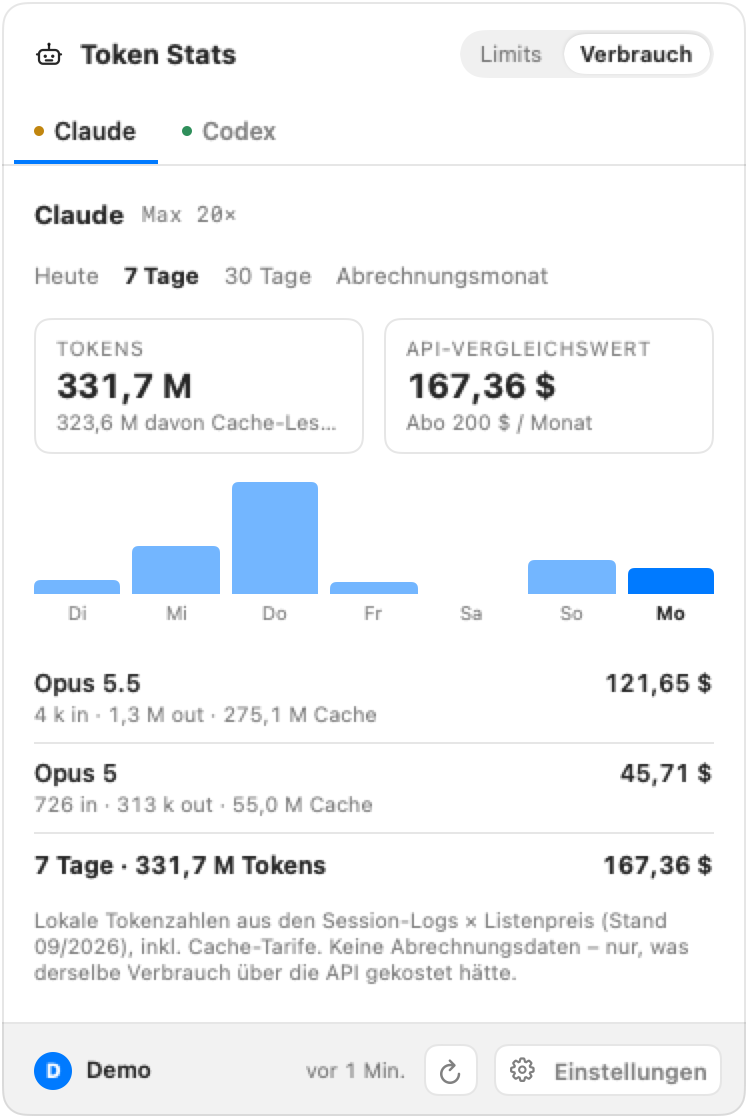
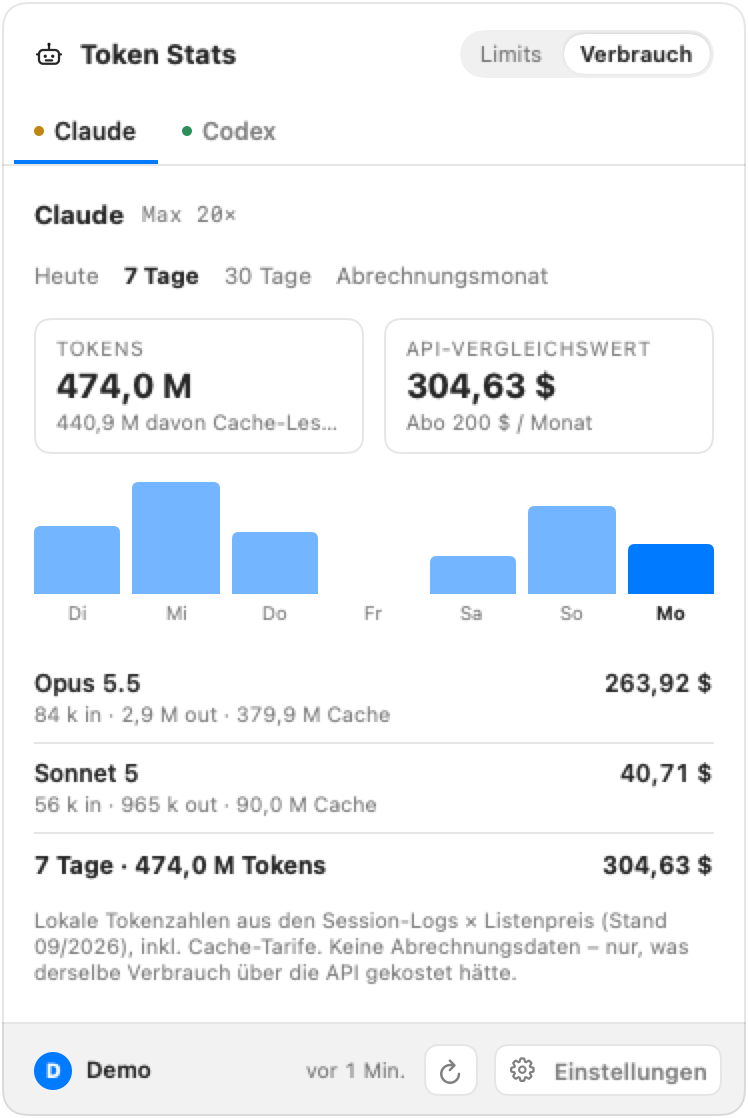
Screenshots nur mit Demo-Werten
Auch die Verbrauchsseite zeigt jetzt Demo-Werte (30 Tage mit
Wochenrhythmus, Opus 5.5/Sonnet 5 bzw. GPT-5.6 Sol, Cache-Anteil um
80 %). Der Screenshot-Modus liest keine Logs mehr und fragt nichts ab;
TOKENSTATS_OPEN_SETTINGS läuft ebenfalls mit Demo-Werten.

diff --git a/Sources/TokenStats/App/Screenshots.swift b/Sources/TokenStats/App/Screenshots.swift
@@ -5,8 +5,8 @@ import SwiftUI
 /// `make screenshots`: rendert Popover und Menüleisten-Symbol als PNG für die README.
 ///
 /// Die App zeichnet ihre eigenen Views, deshalb braucht das keine Freigabe für
-/// Bildschirmaufnahme. Limits kommen aus festen Demo-Werten (keine Abfrage, kein Cache,
-/// keine Kontonamen), der Verbrauch aus dem echten Ledger.
+/// Bildschirmaufnahme. Limits und Verbrauch sind Demo-Werte: keine Abfrage, kein Cache,
+/// keine Logs, keine Kontonamen.
 @MainActor
 struct Screenshots {
     let store: UsageStore
@@ -26,10 +26,14 @@ struct Screenshots {
         }
     }
 
+    /// Demo-Werte für Limits und Verbrauch; nichts wird abgefragt oder aus den Logs gelesen.
+    func showDemo(now: Date = .now) {
+        store.showDemo(Self.demoSnapshots(now: now))
+        consumption.showDemo(Self.demoUsage(now: now, billingDay: settings.billingDay, prices: consumption.prices))
+    }
+
     private func capture(into directory: URL) async throws {
-        store.showDemo(Self.demoSnapshots(now: .now))
-        consumption.refresh()
-        while !consumption.hasScannedOnce { try await Task.sleep(for: .milliseconds(200)) }
+        showDemo()
 
         for (suffix, appearance) in [("light", NSAppearance.Name.aqua), ("dark", .darkAqua)] {
             func file(_ name: String) -> URL { directory.appending(path: "\(name)-\(suffix).png") }
@@ -150,6 +154,48 @@ struct Screenshots {
                 fetchedAt: now.addingTimeInterval(-60)
             ),
         ]
+    }
+
+    /// 30 Tage Verbrauch mit Wochenrhythmus; Cache-Anteil wie bei Claude Code üblich um 80 %.
+    static func demoUsage(now: Date, billingDay: Int, prices: PriceTable,
+                          calendar: Calendar = .current) -> [String: [UsagePeriod: UsageSummary]] {
+        // Tagesfaktoren, heute zuletzt; die Nullen sind freie Tage.
+        let pattern: [Double] = [0.9, 1.2, 0.7, 1.4, 0.3, 0, 0.5, 1.1, 1.3, 0.8, 1.6, 0.9, 0.2, 0,
+                                 1.0, 0.6, 1.5, 1.2, 0.7, 0.4, 0.1, 1.3, 0.9, 1.1, 1.8, 1.0, 0, 0.6, 1.4, 0.8]
+        let models: [String: [(model: String, share: Double, perDay: TokenCounts)]] = [
+            "claude": [
+                ("claude-opus-5-5", 0.7, TokenCounts(input: 9_000, output: 310_000, cacheWrite5m: 1_900_000,
+                                                     cacheWrite1h: 600_000, cacheRead: 38_000_000)),
+                ("claude-sonnet-5", 0.3, TokenCounts(input: 14_000, output: 240_000, cacheWrite5m: 1_400_000,
+                                                     cacheWrite1h: 0, cacheRead: 21_000_000)),
+            ],
+            "codex": [
+                ("gpt-5.6-sol", 1, TokenCounts(input: 1_100_000, output: 180_000, cacheRead: 9_500_000)),
+            ],
+        ]
+        let today = calendar.startOfDay(for: now)
+        func scaled(_ counts: TokenCounts, _ factor: Double) -> TokenCounts {
+            func s(_ value: Int) -> Int { Int(Double(value) * factor) }
+            return TokenCounts(input: s(counts.input), output: s(counts.output), cacheWrite5m: s(counts.cacheWrite5m),
+                               cacheWrite1h: s(counts.cacheWrite1h), cacheRead: s(counts.cacheRead))
+        }
+
+        return models.mapValues { lines in
+            let rows = pattern.enumerated().flatMap { index, factor in
+                let day = calendar.date(byAdding: .day, value: index - (pattern.count - 1), to: today)!
+                return lines.map { line in
+                    UsageLedger.Row(day: UsageSummary.key(day, calendar), model: line.model,
+                                    counts: scaled(line.perDay, factor * line.share * 2))
+                }
+            }
+            return Dictionary(uniqueKeysWithValues: UsagePeriod.allCases.map { period in
+                let range = period.range(now: now, billingDay: billingDay, calendar: calendar)
+                let from = UsageSummary.key(range.from, calendar), through = UsageSummary.key(range.through, calendar)
+                let inRange = rows.filter { $0.day >= from && $0.day <= through }
+                return (period, UsageSummary.build(rows: inRange, from: range.from, through: range.through,
+                                                   prices: prices, calendar: calendar))
+            })
+        }
     }
 }
 #endif

diff --git a/Sources/TokenStats/App/AppDelegate.swift b/Sources/TokenStats/App/AppDelegate.swift
@@ -34,13 +34,19 @@ final class AppDelegate: NSObject, NSApplicationDelegate {
         popover.behavior = .transient
         popover.animates = false
 
+        #if DEBUG
+        // Für Screenshots: Demo-Werte statt Abfrage und Logs, Einstellungen gleich offen.
+        if ProcessInfo.processInfo.environment["TOKENSTATS_OPEN_SETTINGS"] != nil {
+            Screenshots(store: store, consumption: consumption, settings: settings).showDemo()
+            observeIcon()
+            openSettings()
+            return
+        }
+        #endif
+
         observeIcon()
         store.start()
         consumption.start()
-        #if DEBUG
-        // Für `make screenshots`: Einstellungen gleich öffnen, ohne Klick aufs Symbol.
-        if ProcessInfo.processInfo.environment["TOKENSTATS_OPEN_SETTINGS"] != nil { openSettings() }
-        #endif
     }
 
     // MARK: Symbol

diff --git a/Sources/TokenStats/Usage/ConsumptionStore.swift b/Sources/TokenStats/Usage/ConsumptionStore.swift
@@ -124,6 +124,15 @@ final class ConsumptionStore {
         summaries[provider]?[period]
     }
 
+    #if DEBUG
+    /// Nur für Screenshots: feste Zusammenfassungen, ohne die Logs zu lesen.
+    func showDemo(_ demo: [String: [UsagePeriod: UsageSummary]]) {
+        timer?.invalidate()
+        summaries = demo
+        hasScannedOnce = true
+    }
+    #endif
+
     func refresh() {
         guard let ledger, !isScanning else { return }
         isScanning = true

diff --git a/CLAUDE.md b/CLAUDE.md
@@ -28,11 +28,12 @@ und fragt nach einem Neustart erst nach Ablauf des Intervalls wieder ab — häu
 
 `make test` startet die App als Test-Host und beendet dabei eine laufende Instanz —
 danach `make run`. Preistabelle aktualisieren: `Scripts/update-pricing.sh`.
-README-Bilder neu rendern: `make screenshots` (nur Debug-Build; Demo-Limits, echter
-Verbrauch; Hell und Dunkel). Braucht keine Bildschirmaufnahme-Freigabe, weil die App
+README-Bilder neu rendern: `make screenshots` (nur Debug-Build; Hell und Dunkel). Alle
+Werte sind Demo-Werte (`Screenshots.swift`) – für Screenshots nie echte Limits, Logs oder
+Kontonamen verwenden. Braucht keine Bildschirmaufnahme-Freigabe, weil die App
 ihre Views selbst zeichnet. Ausnahme Einstellungen: Offscreen zeichnet AppKit die Schalter
-grau, darum echt aufnehmen – App mit `TOKENSTATS_OPEN_SETTINGS=1` starten (öffnet das
-Fenster, nur Debug), Fenster-ID per `CGWindowListCopyWindowInfo` holen,
+grau, darum echt aufnehmen – App mit `TOKENSTATS_OPEN_SETTINGS=1` starten (Demo-Werte,
+keine Abfrage, öffnet das Fenster; nur Debug), Fenster-ID per `CGWindowListCopyWindowInfo` holen,
 `screencapture -x -o -l <id>`, je einmal im hellen und dunklen Modus. Braucht die
 Freigabe „Bildschirmaufnahme“ für das Terminal.
 

diff --git a/README.md b/README.md
@@ -86,7 +86,7 @@ Die Einstellungen – Anzeige, Stichtag des Abos und Abfrageintervall:
   </picture>
 </p>
 
-<sub>Die Limits in den Screenshots sind Demo-Werte, der Verbrauch ist echt.</sub>
+<sub>Alle Werte in den Screenshots sind Demo-Werte.</sub>
 
 ## Anbieter
 
